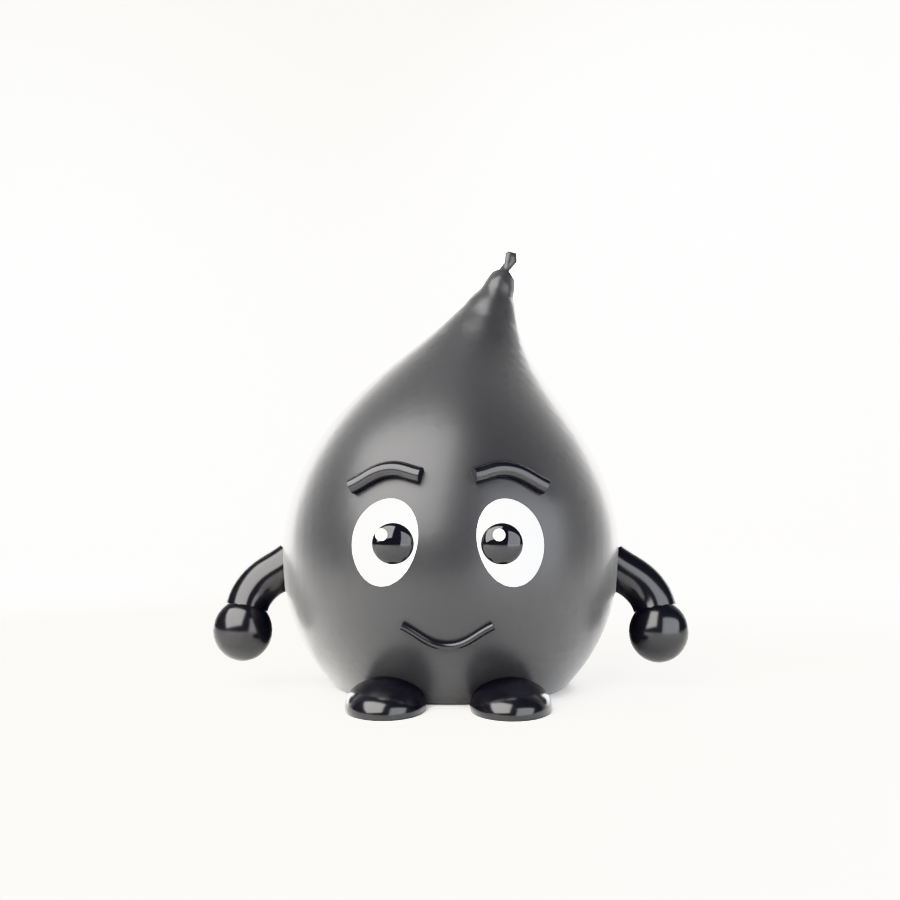
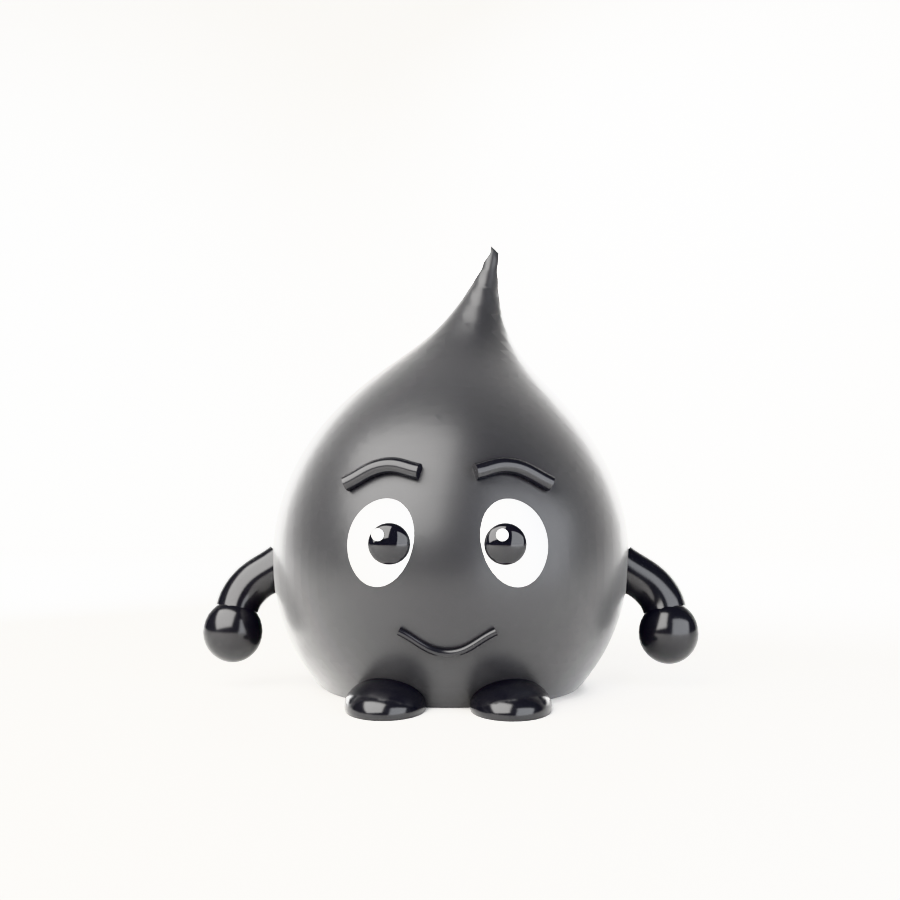
fix: Clio tip — dense chain, smooth taper, no balloon knot

diff --git a/tools/clio-character/build_clio.py b/tools/clio-character/build_clio.py
@@ -49,11 +49,11 @@ base = mb_data.elements.new(type='BALL')
 base.co = (0.0, 0.0, 1.08)
 base.radius = 1.12
 
-for i in range(1, 15):
-    t = i / 14.0
+for i in range(1, 23):
+    t = i / 22.0
     el = mb_data.elements.new(type='BALL')
-    el.co = (0.32 * t ** 2.2, 0.0, 1.08 + 1.55 * t)
-    el.radius = 1.12 * (1.0 - t) ** 1.4 + 0.04
+    el.co = (0.20 * t ** 2.0, 0.0, 1.08 + 1.48 * t)
+    el.radius = 1.12 * (1.0 - t) ** 1.5 + 0.058
 
 # Convert metaball to mesh
 bpy.context.view_layer.objects.active = mb_obj
